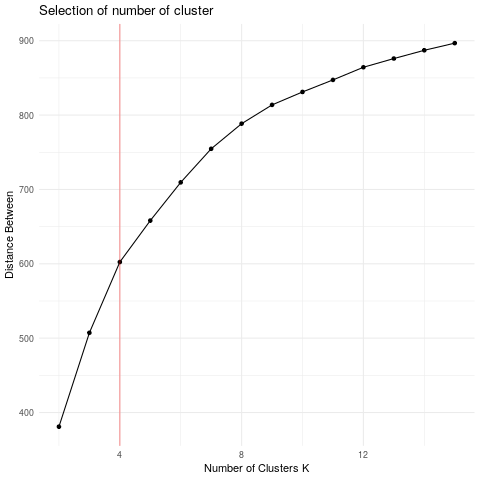
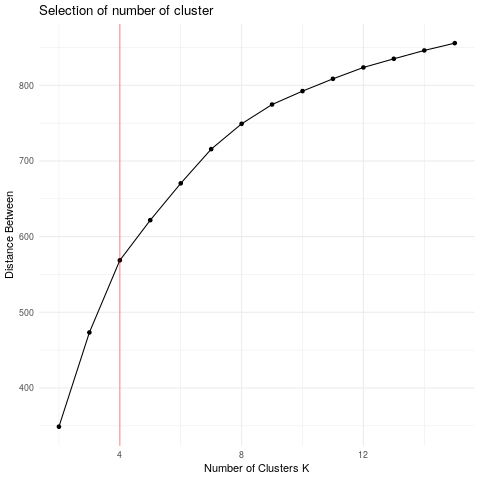
rimossa colonna MeanAbsoluteDeviation_2

diff --git a/main.py b/main.py
@@ -15,7 +15,6 @@ extract_this = {"shape":      ["Maximum3DDiameter",
                                "SurfaceVolumeRatio",
                                "Flatness", "VoxelVolume"],
                 "firstorder": ["Entropy", "Kurtosis", "Maximum",
-                               "MeanAbsoluteDeviation",
                                "Mean", "Median", "Minimum",
                                "MeanAbsoluteDeviation",
                                "Skewness", "Variance"],
